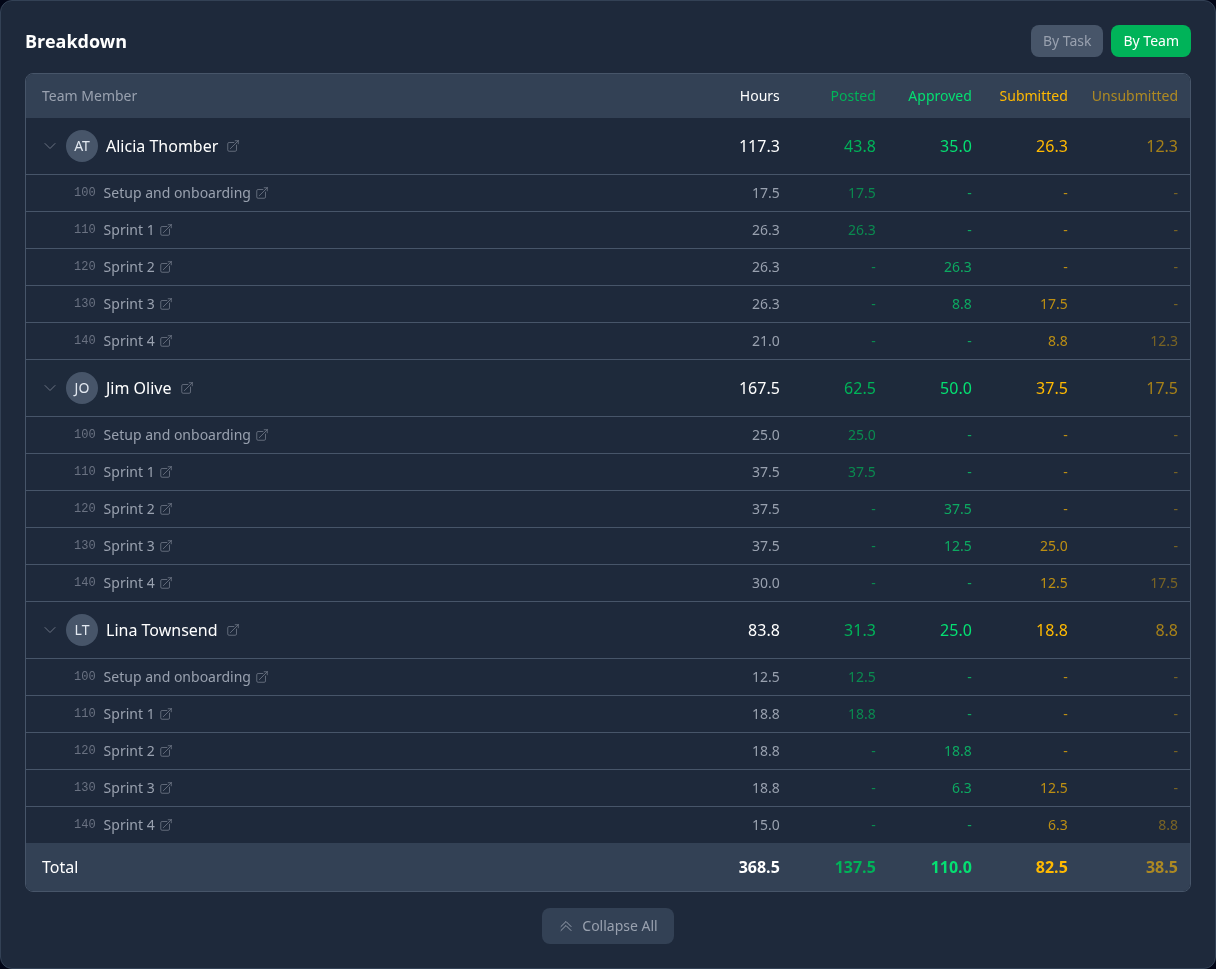
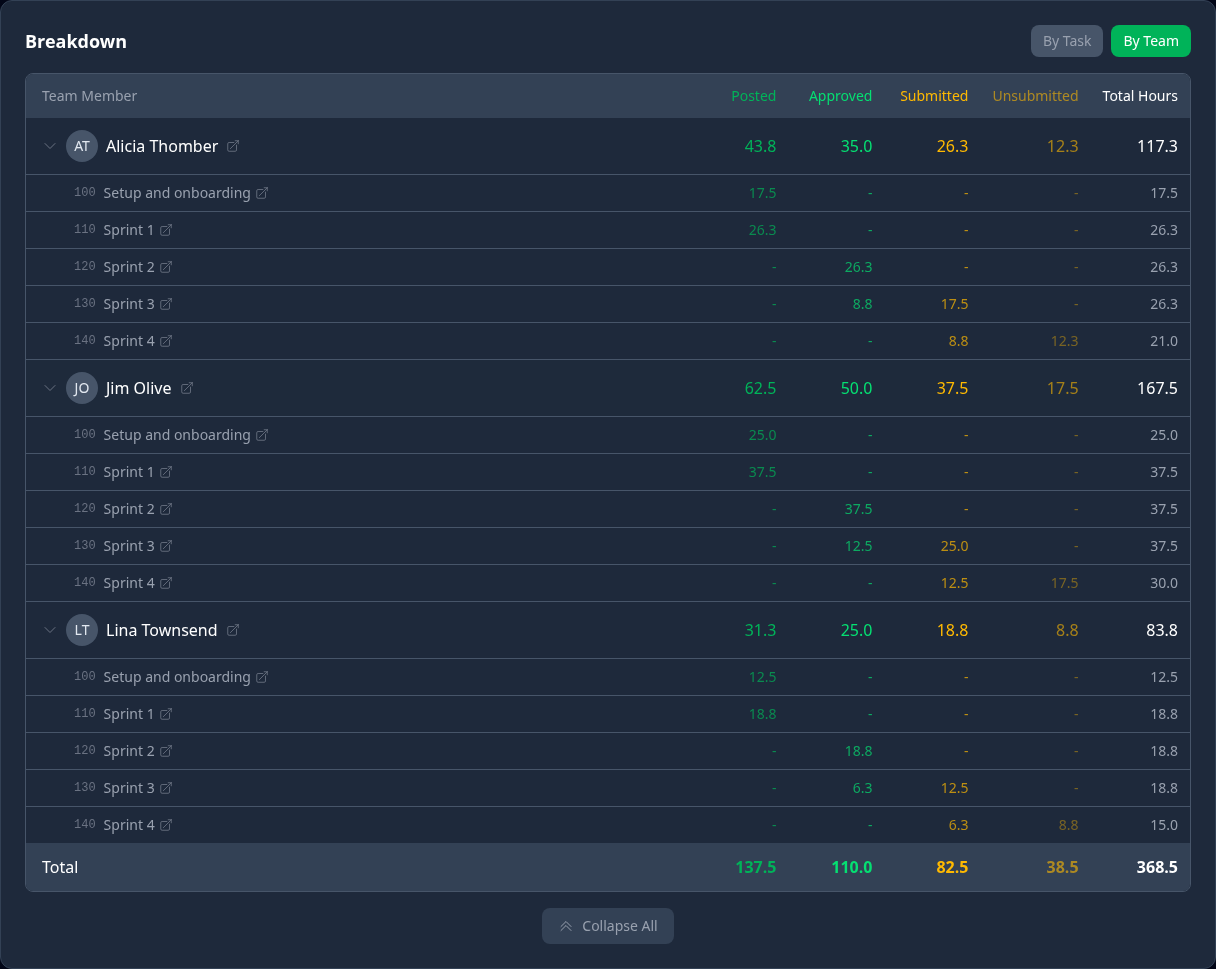
feat: move the breakdown total to the last column as Total Hours

diff --git a/src/components/projects/ProjectTasksTable.tsx b/src/components/projects/ProjectTasksTable.tsx
@@ -23,9 +23,8 @@ type GroupBy = 'task' | 'team';
 type StatusKey = 'hours' | 'postedHours' | 'approvedHours' | 'submittedHours' | 'unsubmittedHours';
 type StatusRow = Record<StatusKey, number>;
 
-// Hour columns, in stage order (same colours as the Time Spent card and weekly chart)
+// Hour columns, in stage order then the total (same colours as the Time Spent card and weekly chart)
 const STATUS_COLUMNS: { key: StatusKey; label: string; text: string; subText: string }[] = [
-  { key: 'hours', label: 'Hours', text: 'text-white', subText: 'text-gray-400' },
   { key: 'postedHours', label: 'Posted', text: 'text-thyme-600', subText: 'text-thyme-600/70' },
   { key: 'approvedHours', label: 'Approved', text: 'text-green-400', subText: 'text-green-400/70' },
   {
@@ -40,6 +39,8 @@ const STATUS_COLUMNS: { key: StatusKey; label: string; text: string; subText: st
     text: 'text-amber-400/60',
     subText: 'text-amber-400/40',
   },
+  // The stages add up to this, so it comes last
+  { key: 'hours', label: 'Total Hours', text: 'text-white', subText: 'text-gray-400' },
 ];
 
 // null = BC's own order (Job Task No. / Resource No.); otherwise a column, highest or lowest first
@@ -91,7 +92,10 @@ function SortableHeaders({
       {STATUS_COLUMNS.map((col) => (
         <th
           key={col.key}
-          className={cn('w-24 px-3 py-3 text-right text-sm font-medium', col.text)}
+          className={cn(
+            'w-24 px-3 py-3 text-right text-sm font-medium whitespace-nowrap',
+            col.text
+          )}
           aria-sort={ariaSort(col.key)}
         >
           <button
